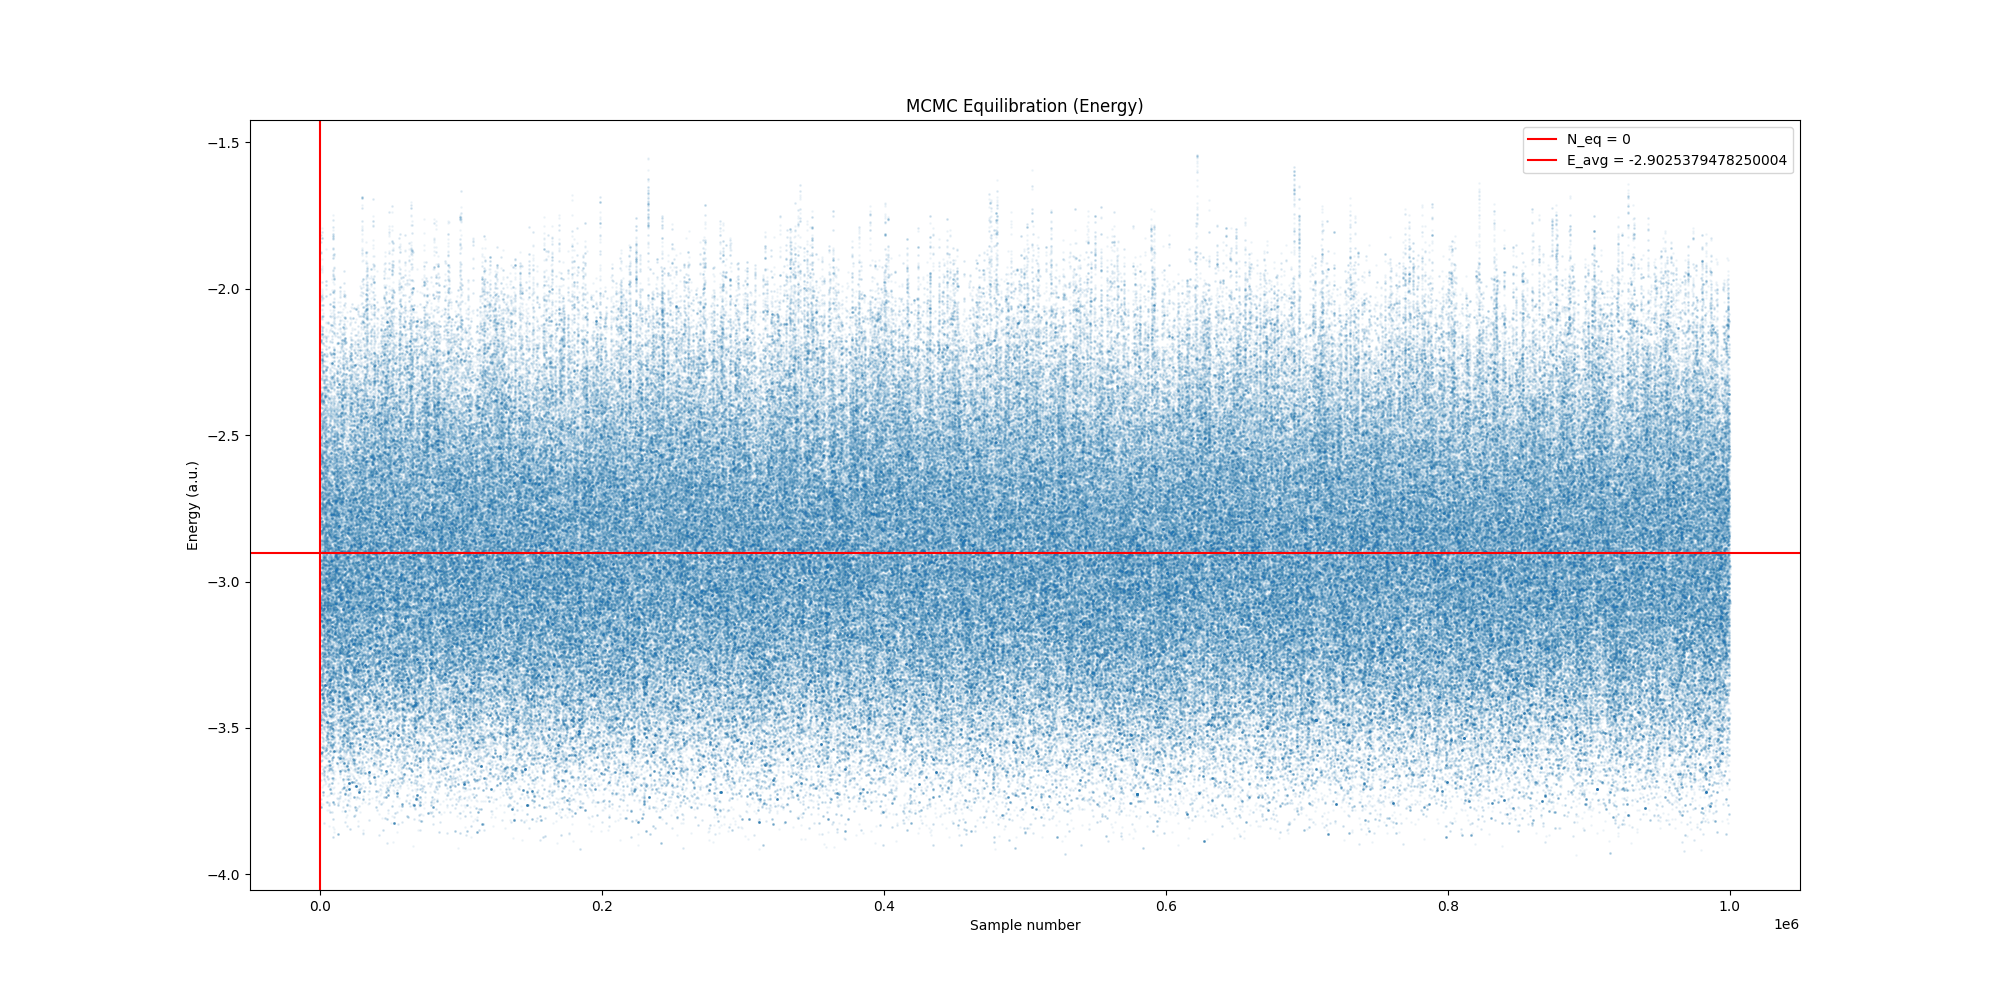
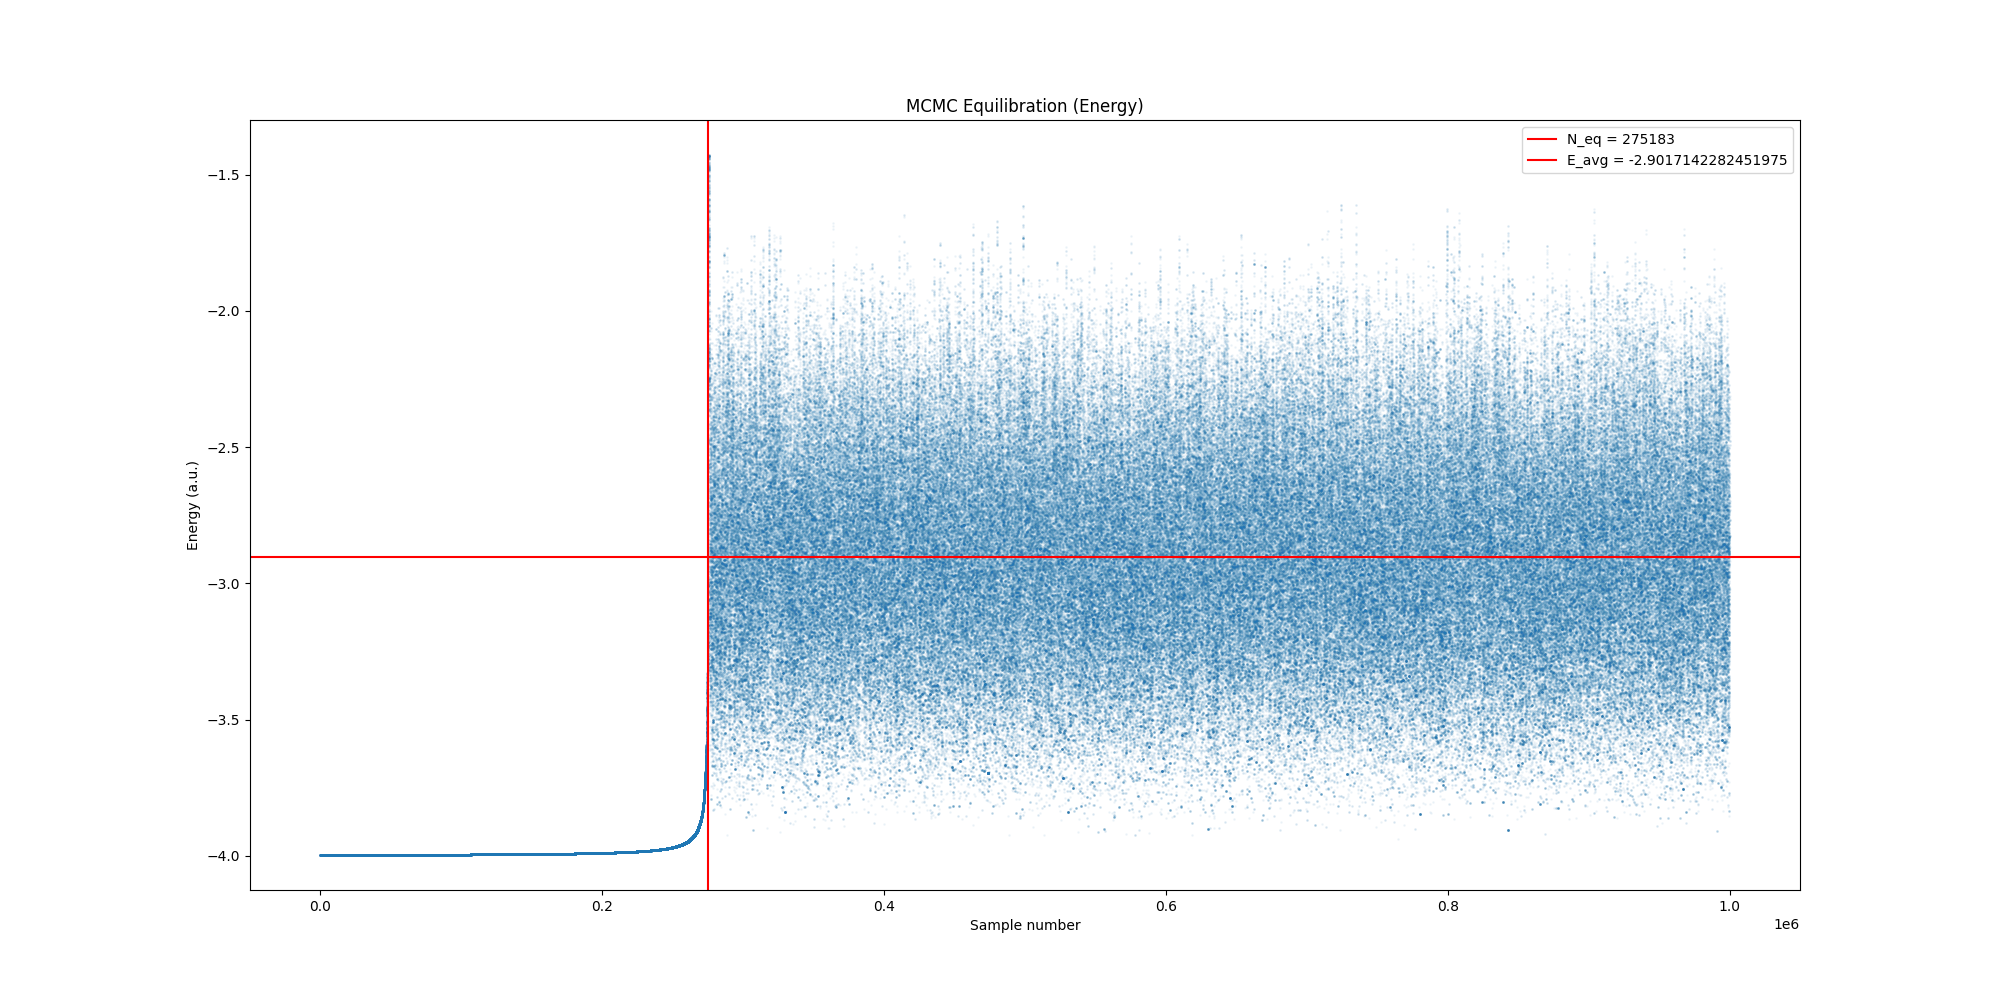
updated t2 with readme

diff --git a/H2/src/run.c b/H2/src/run.c
@@ -89,16 +89,12 @@ void task2_sampling(int argc, char *argv[], gsl_rng *r)
     int accepted_iterations = 0;
     double energy = 0;
 
-    //init
-    for(i = 0; i < N; i++)
-        iteration = mcmc_displace_all(r1,r2,d,alpha,r);
-
     //mcmc sampling
     for(i = 0; i < N; i++)
     {
         iteration = mcmc_displace_all(r1,r2,d,alpha,r);
         fprintf(op_energy,"%f\n",iteration.energy);
-        if(i%100 == 0)
+        //if(i%100 == 0)
             fprintf(op_samples,"%f\t%f\t%f\t%f\t%f\t%f\n",r1[0],r1[1],r1[2],r2[0],r2[1],r2[2]);
         
         accepted_iterations += iteration.accepted;
@@ -112,7 +108,7 @@ void task2_sampling(int argc, char *argv[], gsl_rng *r)
 void task1_correlation()
 {
     //file input
-    FILE *samples = fopen("op_text/samples_t1.txt","r");
+    FILE *samples = fopen("op_text/samples.txt","r");
     //file output
     FILE *op_theta = fopen("op_text/theta_t1.txt","w");
     FILE *op_uniform = fopen("op_text/x_uniform_t1.txt","w");
@@ -148,7 +144,7 @@ void task1_correlation()
 void task1_sampling(int argc,char *argv[], gsl_rng *r)
 {
     //file output
-    FILE *samples = fopen("op_text/samples_t1.txt","w");
+    FILE *samples = fopen("op_text/samples.txt","w");
 
     int N = atoi(argv[2]);
     double d = atof(argv[3]);

diff --git a/H2/py_viz/r_dist_viz_t1.py b/H2/py_viz/r_dist_viz_t1.py
@@ -5,7 +5,7 @@ from matplotlib import cm
 def prob(Z,r):
     return Z*Z*Z * 4*r*r * np.exp(-2*Z*r)
 
-data = open("../op_text/samples_t1.txt","r").read().split('\n')
+data = open("../op_text/samples.txt","r").read().split('\n')
 data.pop()
 n = int(data.pop(0))
 

diff --git a/H2/py_viz/energy_sample_evol_t2.py b/H2/py_viz/energy_sample_evol_t2.py
@@ -34,6 +34,7 @@ plt.savefig("../op_fig/mcmc_eqb_t2.png")
 file = open("../op_text/mcmc_energy_eqb_t2.txt","w")
 
 #length
+i += 100
 file.write(str(len(data[i:])) + '\n')
 
 for j in range(len(data[i:])):

diff --git a/H2/README.md b/H2/README.md
@@ -24,4 +24,22 @@ Execution format:
 ./H2 2
 ```
 
+
+#### Task 2, subtask 1
+Similar to T1S1, this is a sampling subroutine, with the only difference of having an "unlikely" initial starting point. The syntax of execution is identical to T1S1.
+```
+./H2 3 <n samples> <delta value>
+```
+
+#### Task 2, subtask 2 & 3
+This part handles the statistical inefficiency calculations, and similar to T1S2 requires no parameters.
+
+Autocorrelation method:
+```
+./H2 4
+```
+Block averaging method:
+```
+./H2 5
+```
 The remainder of the project involves visualization by python, which I assume to be self-evident in their execution.
